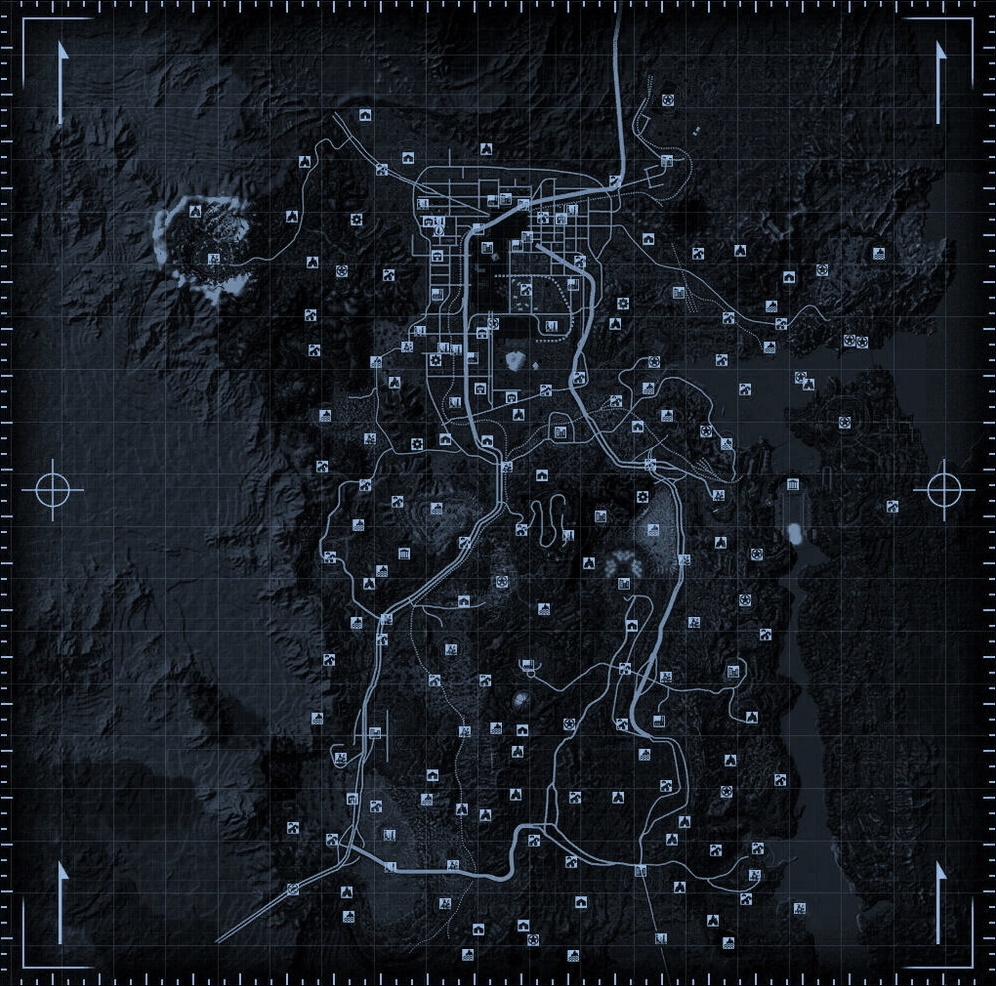
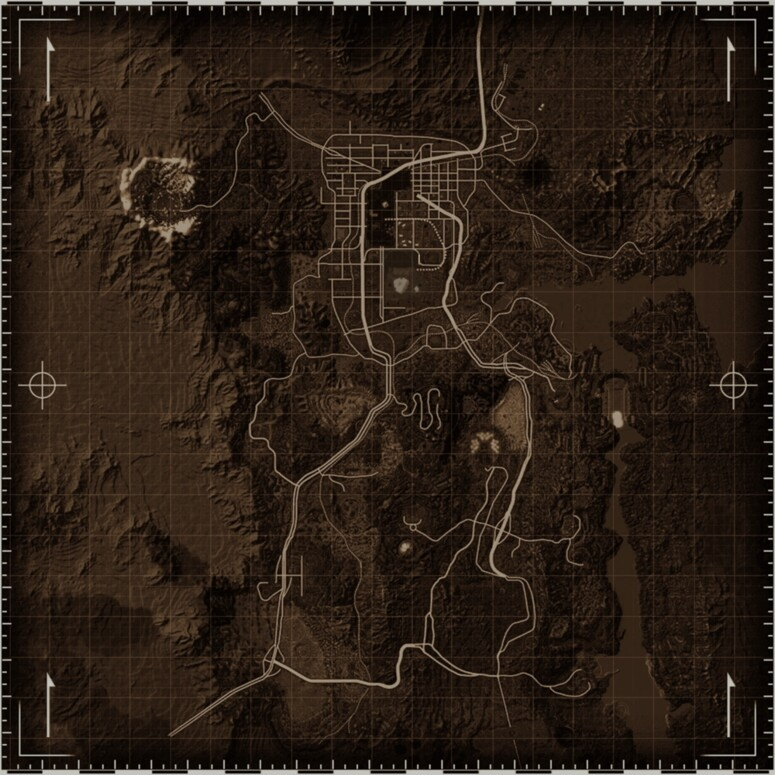
change map & add hoverable locations

diff --git a/src/pages/fallout/components/Map/Map.tsx b/src/pages/fallout/components/Map/Map.tsx
@@ -1,0 +1,214 @@
+import React, { useRef, useState, useEffect, useLayoutEffect, useCallback } from 'react'
+import { MapInteractionCSS } from 'react-map-interaction'
+import { isEqual, throttle } from 'lodash'
+
+import { SoundManager, Sounds } from '@services/sounds'
+
+import mapLocations from '../../data/mapLocations.json'
+
+export const Map = () => {
+  const containerRef = useRef<HTMLDivElement>(null)
+  const imgRef = useRef<HTMLImageElement>(null)
+  const [imgLoaded, setImgLoaded] = useState(false)
+  const [containerDimensions, setContainerDimensions] = useState({ x: 0, y: 0 })
+  const [imgDimensions, setImgDimensions] = useState({ x: 0, y: 0 })
+  const [bounds, setBounds] = useState({
+    scale: 0,
+    translation: { x: 0, y: 0 },
+    minScale: 1,
+    xMin: 0,
+    yMin: 0,
+  })
+
+  //
+  // ─── LIFECYCLE ──────────────────────────────────────────────────────────────────
+  //
+
+  useLayoutEffect(() => {
+    if (!!containerRef.current) {
+      setContainerDimensions({
+        x: containerRef.current.offsetWidth,
+        y: containerRef.current.offsetHeight,
+      })
+    }
+  }, [containerRef])
+
+  useEffect(() => {
+    if (!!imgRef.current) {
+      setImgDimensions({
+        x: imgRef.current.naturalWidth,
+        y: imgRef.current.naturalHeight,
+      })
+    }
+  }, [imgLoaded])
+
+  useEffect(() => {
+    if (containerDimensions.x === 0) return
+    if (imgDimensions.x === 0) return
+
+    // Make sure the map will always fill the container's width
+    const minScale = containerDimensions.x / imgDimensions.x
+    let scale = bounds.scale
+
+    // Handle initial scale of 0 (this is necessary to handle unloaded image)
+    if (scale === 0) scale = minScale
+
+    // Make sure user can't translate beyond the dimensions of the image
+    const xMin = containerDimensions.x - imgDimensions.x * scale
+    const yMin = containerDimensions.y - imgDimensions.y * scale
+
+    setBounds({
+      ...bounds,
+      scale: scale,
+      minScale: minScale,
+      xMin: xMin,
+      yMin: yMin,
+    })
+  }, [bounds.scale, containerDimensions, imgDimensions]) // eslint-disable-line react-hooks/exhaustive-deps
+
+  //
+  // ─── METHODS ────────────────────────────────────────────────────────────────────
+  //
+
+  const playZoomSound = useCallback(
+    throttle(() => SoundManager.play(Sounds.FALLOUT.MAP_ZOOM), 20, {
+      leading: true,
+      trailing: false,
+    }),
+    []
+  )
+
+  const playPanSound = useCallback(
+    throttle(() => SoundManager.play(Sounds.FALLOUT.MAP_PAN), 30, {
+      leading: true,
+      trailing: false,
+    }),
+    []
+  )
+
+  const onMapChange = (newState: any) => {
+    // If user makes any SCALING gestures
+    if (!isEqual(newState.scale, bounds.scale)) {
+      playZoomSound()
+    }
+
+    // If user makes any PANNING gestures
+    else if (!isEqual(newState.translation, bounds.translation)) {
+      // This ensures the pan sound will only trigger every 20 pixels translated
+      const roundToStep = (x: number) => Math.ceil(x / 20) * 20
+      const xPan = roundToStep(newState.translation.x) !== roundToStep(bounds.translation.x)
+      const yPan = roundToStep(newState.translation.y) !== roundToStep(bounds.translation.y)
+      if (xPan || yPan) playPanSound()
+    }
+
+    setBounds({ ...bounds, ...newState })
+  }
+
+  //
+  // ─── RENDER ─────────────────────────────────────────────────────────────────────
+  //
+
+  return (
+    <div className="map-container" ref={containerRef}>
+      <MapInteractionCSS
+        translationBounds={{ xMin: bounds.xMin, xMax: 0, yMin: bounds.yMin, yMax: 0 }}
+        maxScale={2}
+        minScale={bounds.minScale}
+        value={bounds}
+        onChange={onMapChange}
+        onCl
+      >
+        <img
+          src="/fallout/images/map_mojave.jpg"
+          alt="Fallout Map Mojave"
+          ref={imgRef}
+          onLoad={() => setImgLoaded(true)}
+        />
+
+        <Locations />
+      </MapInteractionCSS>
+
+      <style jsx>{`
+        .map-container {
+          width: 100%;
+          height: 100%;
+        }
+      `}</style>
+    </div>
+  )
+}
+
+export const Locations = () => {
+  return (
+    <div className="locations">
+      {mapLocations.map((location, index) => (
+        <Location key={`map-location-${index}`} {...location} />
+      ))}
+
+      <style jsx>{`
+        .locations {
+          position: absolute;
+          top: 0;
+          right: 0;
+          bottom: 0;
+          left: 0;
+        }
+      `}</style>
+    </div>
+  )
+}
+
+export const Location = ({
+  name,
+  image,
+  x,
+  y,
+}: {
+  name: string
+  image: string
+  x: number
+  y: number
+}) => {
+  const [showInfo, setShowInfo] = useState(false)
+
+  return (
+    <div
+      className="location"
+      style={{ left: x, top: y, backgroundImage: `url(${image})` }}
+      onMouseEnter={() => setShowInfo(true)}
+      onMouseLeave={() => setShowInfo(false)}
+    >
+      {showInfo && <div className="info">{name}</div>}
+
+      <style jsx>{`
+        .location {
+          position: absolute;
+          width: 17px;
+          height: 17px;
+          cursor: pointer;
+          display: flex;
+          justify-content: center;
+          background-size: cover;
+          transition: 0.1s ease all;
+          border-radius: 1px;
+
+          &:hover {
+            transform: scale(1.2);
+          }
+
+          .info {
+            position: absolute;
+            bottom: 20px;
+            background: #000000;
+            color: #ffcd00;
+            padding: 0.3rem 0.5rem;
+            font-size: 0.9rem;
+            line-height: 1;
+            border-radius: 2px;
+            white-space: nowrap;
+          }
+        }
+      `}</style>
+    </div>
+  )
+}

diff --git a/src/pages/fallout/components/Sections/DataSection.tsx b/src/pages/fallout/components/Sections/DataSection.tsx
@@ -1,8 +1,7 @@
-import React, { useRef, useState, useEffect, useLayoutEffect, useCallback } from 'react'
-import { MapInteractionCSS } from 'react-map-interaction'
-import { isEqual, throttle } from 'lodash'
+import React from 'react'
 
-import { SoundManager, Sounds } from '@services/sounds'
+import { Map } from '../Map/Map'
+
 import { hexToRgba } from '@utils/styling'
 
 //
@@ -57,124 +56,10 @@ const QuestsTab = () => {
 }
 
 const MapTab = () => {
-  const containerRef = useRef<HTMLDivElement>(null)
-  const imgRef = useRef<HTMLImageElement>(null)
-  const [imgLoaded, setImgLoaded] = useState(false)
-  const [containerDimensions, setContainerDimensions] = useState({ x: 0, y: 0 })
-  const [imgDimensions, setImgDimensions] = useState({ x: 0, y: 0 })
-  const [bounds, setBounds] = useState({
-    scale: 0,
-    translation: { x: 0, y: 0 },
-    minScale: 1,
-    xMin: 0,
-    yMin: 0,
-  })
-
-  //
-  // ─── LIFECYCLE ──────────────────────────────────────────────────────────────────
-  //
-
-  useLayoutEffect(() => {
-    if (!!containerRef.current) {
-      setContainerDimensions({
-        x: containerRef.current.offsetWidth,
-        y: containerRef.current.offsetHeight,
-      })
-    }
-  }, [containerRef])
-
-  useEffect(() => {
-    if (!!imgRef.current) {
-      setImgDimensions({
-        x: imgRef.current.naturalWidth,
-        y: imgRef.current.naturalHeight,
-      })
-    }
-  }, [imgLoaded])
-
-  useEffect(() => {
-    if (containerDimensions.x === 0) return
-    if (imgDimensions.x === 0) return
-
-    // Make sure the map will always fill the container's width
-    const minScale = containerDimensions.x / imgDimensions.x
-    let scale = bounds.scale
-
-    // Handle initial scale of 0 (this is necessary to handle unloaded image)
-    if (scale === 0) scale = minScale
-
-    // Make sure user can't translate beyond the dimensions of the image
-    const xMin = containerDimensions.x - imgDimensions.x * scale
-    const yMin = containerDimensions.y - imgDimensions.y * scale
-
-    setBounds({
-      ...bounds,
-      scale: scale,
-      minScale: minScale,
-      xMin: xMin,
-      yMin: yMin,
-    })
-  }, [bounds.scale, containerDimensions, imgDimensions]) // eslint-disable-line react-hooks/exhaustive-deps
-
-  //
-  // ─── METHODS ────────────────────────────────────────────────────────────────────
-  //
-
-  const playZoomSound = useCallback(
-    throttle(() => SoundManager.play(Sounds.FALLOUT.MAP_ZOOM), 20, {
-      leading: true,
-      trailing: false,
-    }),
-    []
-  )
-
-  const playPanSound = useCallback(
-    throttle(() => SoundManager.play(Sounds.FALLOUT.MAP_PAN), 30, {
-      leading: true,
-      trailing: false,
-    }),
-    []
-  )
-
-  const onMapChange = (newState: any) => {
-    // If user makes any SCALING gestures
-    if (!isEqual(newState.scale, bounds.scale)) {
-      playZoomSound()
-    }
-
-    // If user makes any PANNING gestures
-    else if (!isEqual(newState.translation, bounds.translation)) {
-      // This ensures the pan sound will only trigger every 20 pixels translated
-      const roundToStep = (x: number) => Math.ceil(x / 20) * 20
-      const xPan = roundToStep(newState.translation.x) !== roundToStep(bounds.translation.x)
-      const yPan = roundToStep(newState.translation.y) !== roundToStep(bounds.translation.y)
-      if (xPan || yPan) playPanSound()
-    }
-
-    setBounds({ ...bounds, ...newState })
-  }
-
-  //
-  // ─── RENDER ─────────────────────────────────────────────────────────────────────
-  //
-
   return (
     <>
-      <div id="map-tab" ref={containerRef}>
-        <MapInteractionCSS
-          translationBounds={{ xMin: bounds.xMin, xMax: 0, yMin: bounds.yMin, yMax: 0 }}
-          maxScale={2}
-          minScale={bounds.minScale}
-          value={bounds}
-          onChange={onMapChange}
-        >
-          <img
-            src="/fallout/images/map_mojave.jpg"
-            alt="Fallout Map Mojave"
-            ref={imgRef}
-            onLoad={() => setImgLoaded(true)}
-          />
-        </MapInteractionCSS>
+      <div id="map-tab">
+        <Map />
 
         <style jsx>{`
           #map-tab {
